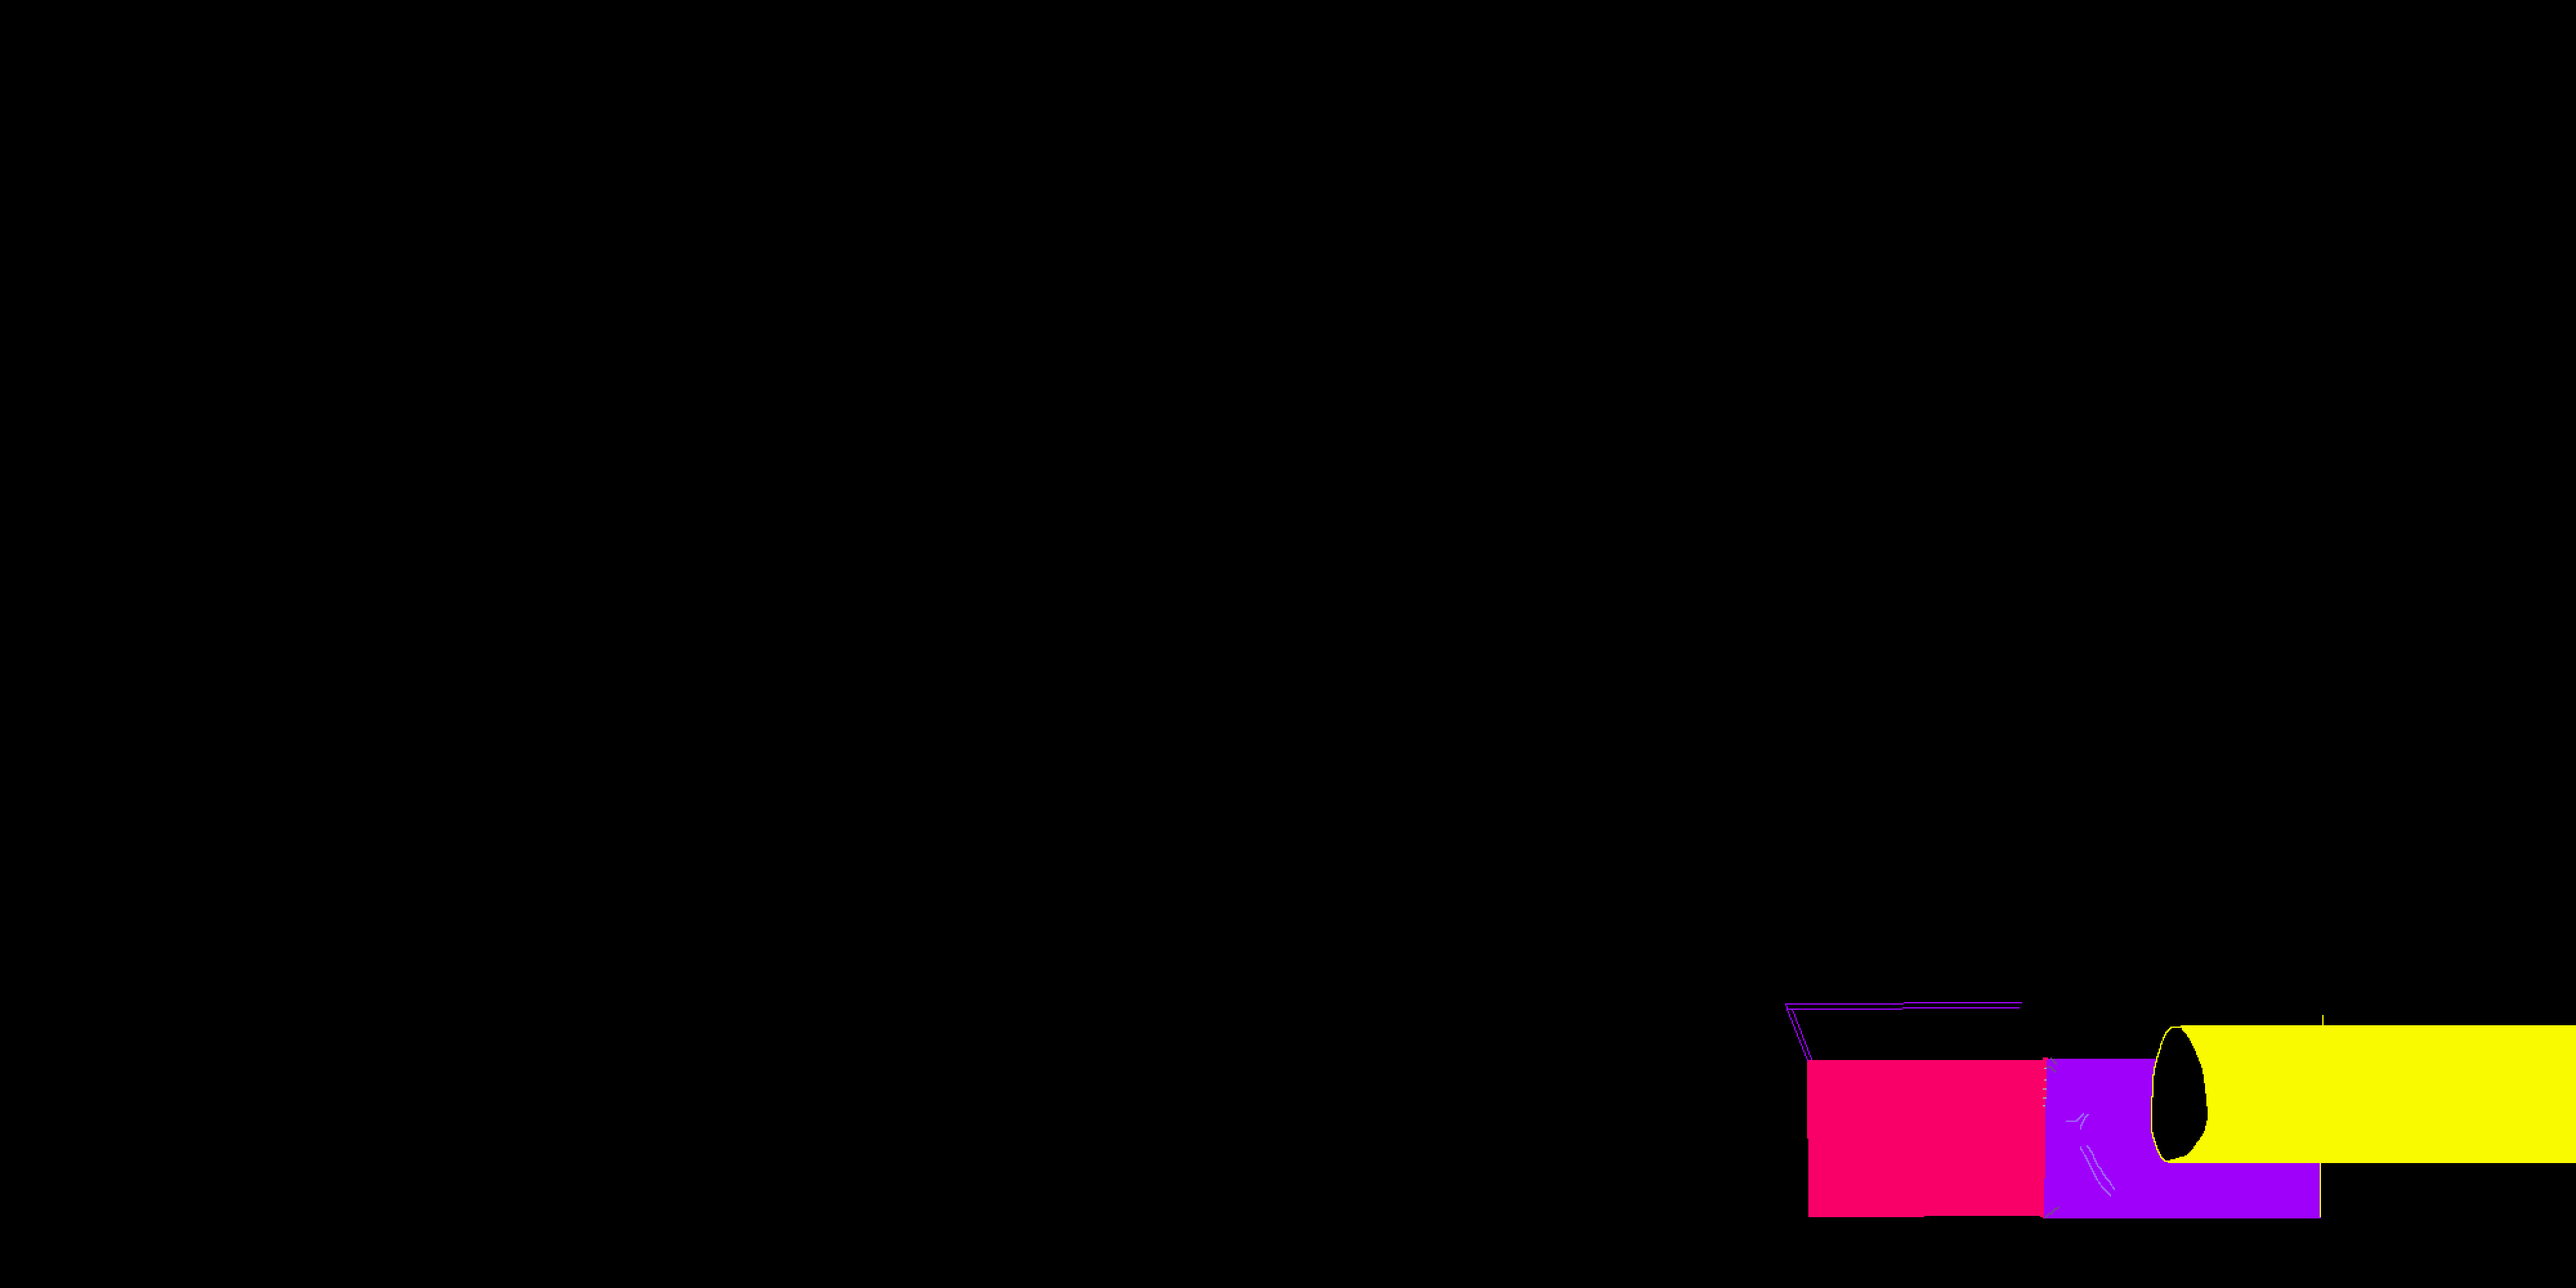
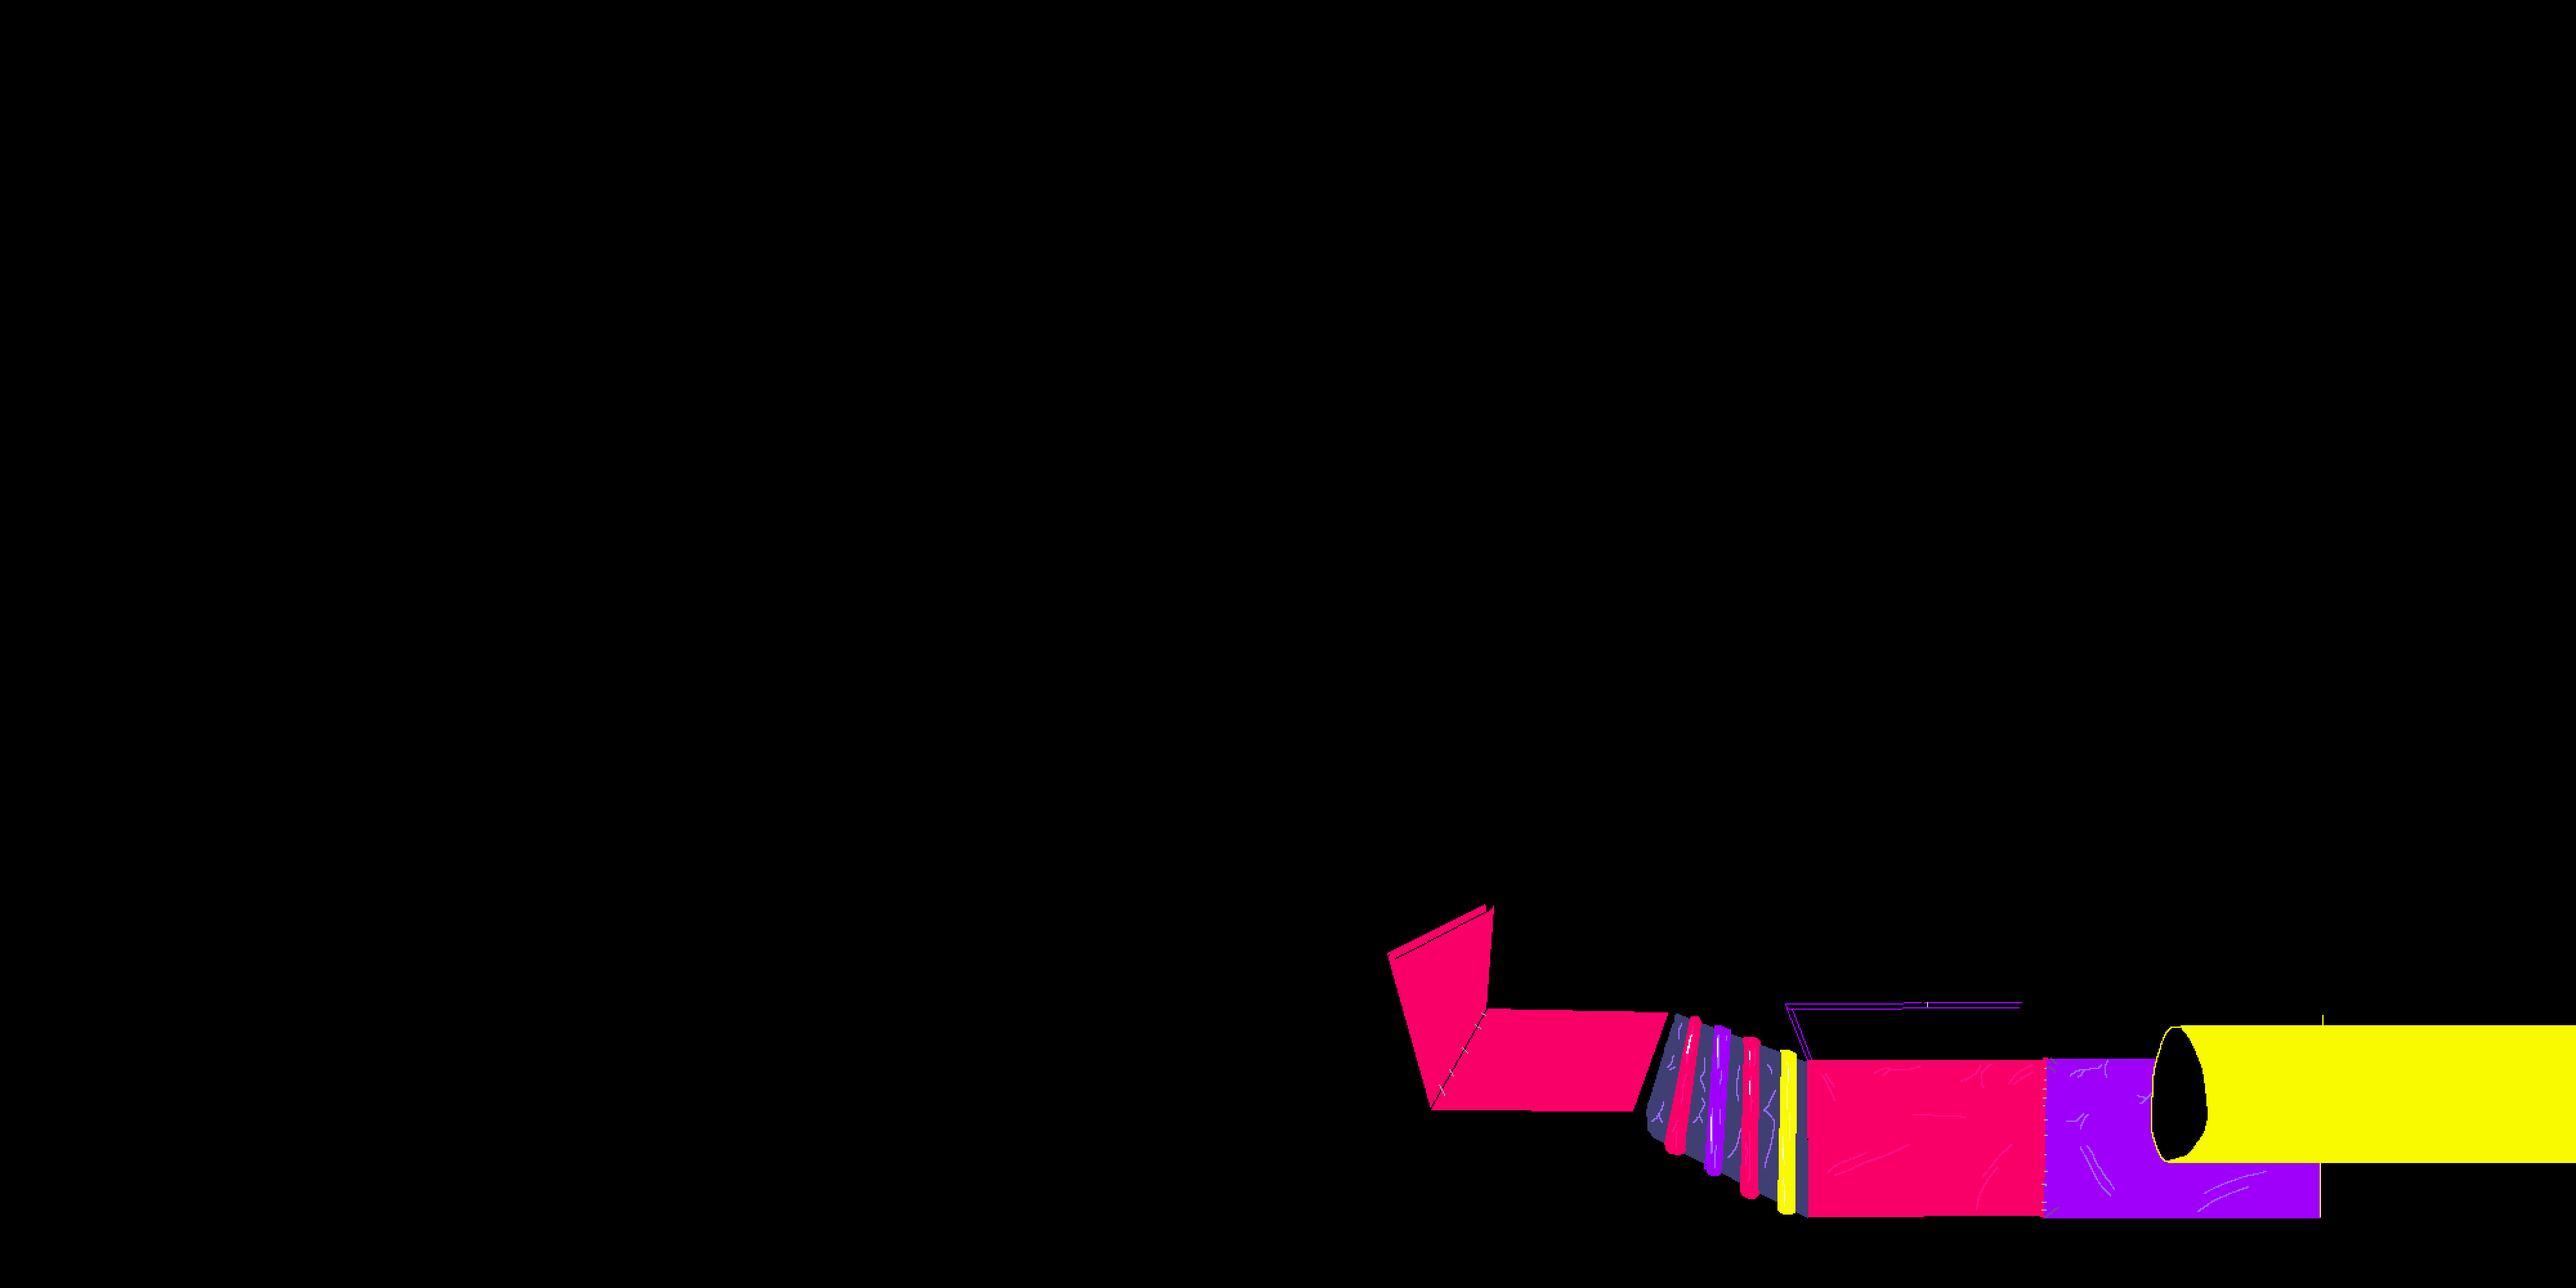
Sync Push

Changed region(s): [[0.5312, 0.713, 0.7188, 0.961]]

diff --git a/Scuzzy/Source/Helper.cpp b/Scuzzy/Source/Helper.cpp
@@ -1059,6 +1059,33 @@ Vector2f LoadLevel(std::string Room, LTexture* Map) {
 			// squirle tree, family kicks u out
 
 
+
+			// door at 4221, 2717 homeless tent
+						// door at 784, 1107 cafe door
+			Vector2f TentPuddlePos(4218, 2727);
+			SDL_Rect TentPuddleRect = { 0, 0, 50, 50 };
+			clips.clear();
+			clips.push_back({ 0, 0, 200, 200 });
+			clips.push_back({ 0,200,200, 200 });
+			clips.push_back({ 0,200 * 2,200, 200 });
+			clips.push_back({ 200,0,200, 200 });
+			clips.push_back({ 200,200,200, 200 });
+			clips.push_back({ 200,200 * 2,200, 200 });
+			clips.push_back({ 200 * 2,0,200, 200 });
+			clips.push_back({ 200 * 2,200,200, 200 });
+			clips.push_back({ 200 * 2,200 * 2,200, 200 });
+			SDL_Rect TentPuddleCB = { TentPuddlePos.x, TentPuddlePos.y, 50, 50 };
+			auto TentPuddleEntity = std::make_shared<Entity>(TentPuddlePos, TentPuddleCB, TentPuddleRect, getTexture("data/Puzzle.png"), 7, clips, 63);
+			Entities.push_back(TentPuddleEntity);
+			Vector2f TentPuddleOutPos(2400, 1400);
+			std::shared_ptr<NPC> TentPuddleNPC = std::make_shared<DoorNPC>(TentPuddleEntity, "LiminalPlaypen", TentPuddleOutPos);
+			TentPuddleNPC->m_Entity = TentPuddleEntity;
+			TentPuddleEntity->moving = true;
+			TentPuddleEntity->setNPC(TentPuddleNPC);
+			TentPuddleEntity->m_Visible = false;
+			collisionBoxes.push_back(&TentPuddleEntity->m_Collider);
+
+
 			// door at 784, 1107 cafe door
 			Vector2f CafePuddlePos(784, 1107);
 			SDL_Rect CafePuddleRect = { 0, 0, 200, 200 };
